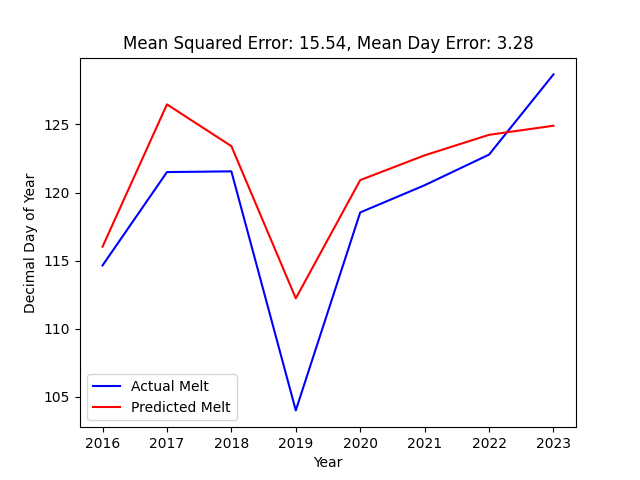
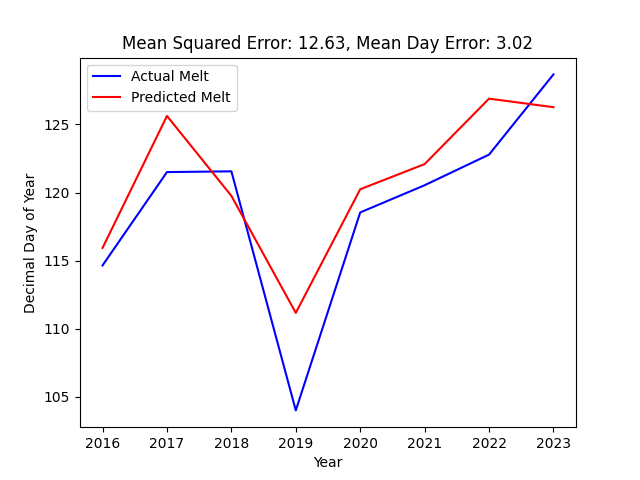
Add march ice

diff --git a/train_model.py b/train_model.py
@@ -7,7 +7,7 @@ import numpy as np
 from sklearn.metrics import mean_squared_error
 
 
-TRAIN_COLUMNS = ['Latest Feb Ice Reading', 'feb_low_temp', 'feb_high_temp', 'prior_melt', 'Latest Feb Date', 'feb_avg_temp']
+TRAIN_COLUMNS = ['Latest March Ice Reading', 'feb_low_temp', 'feb_high_temp', 'Latest March Date', 'feb_avg_temp', 'Latest Feb Date', 'Latest Feb Ice Reading']
 
 
 def main():
